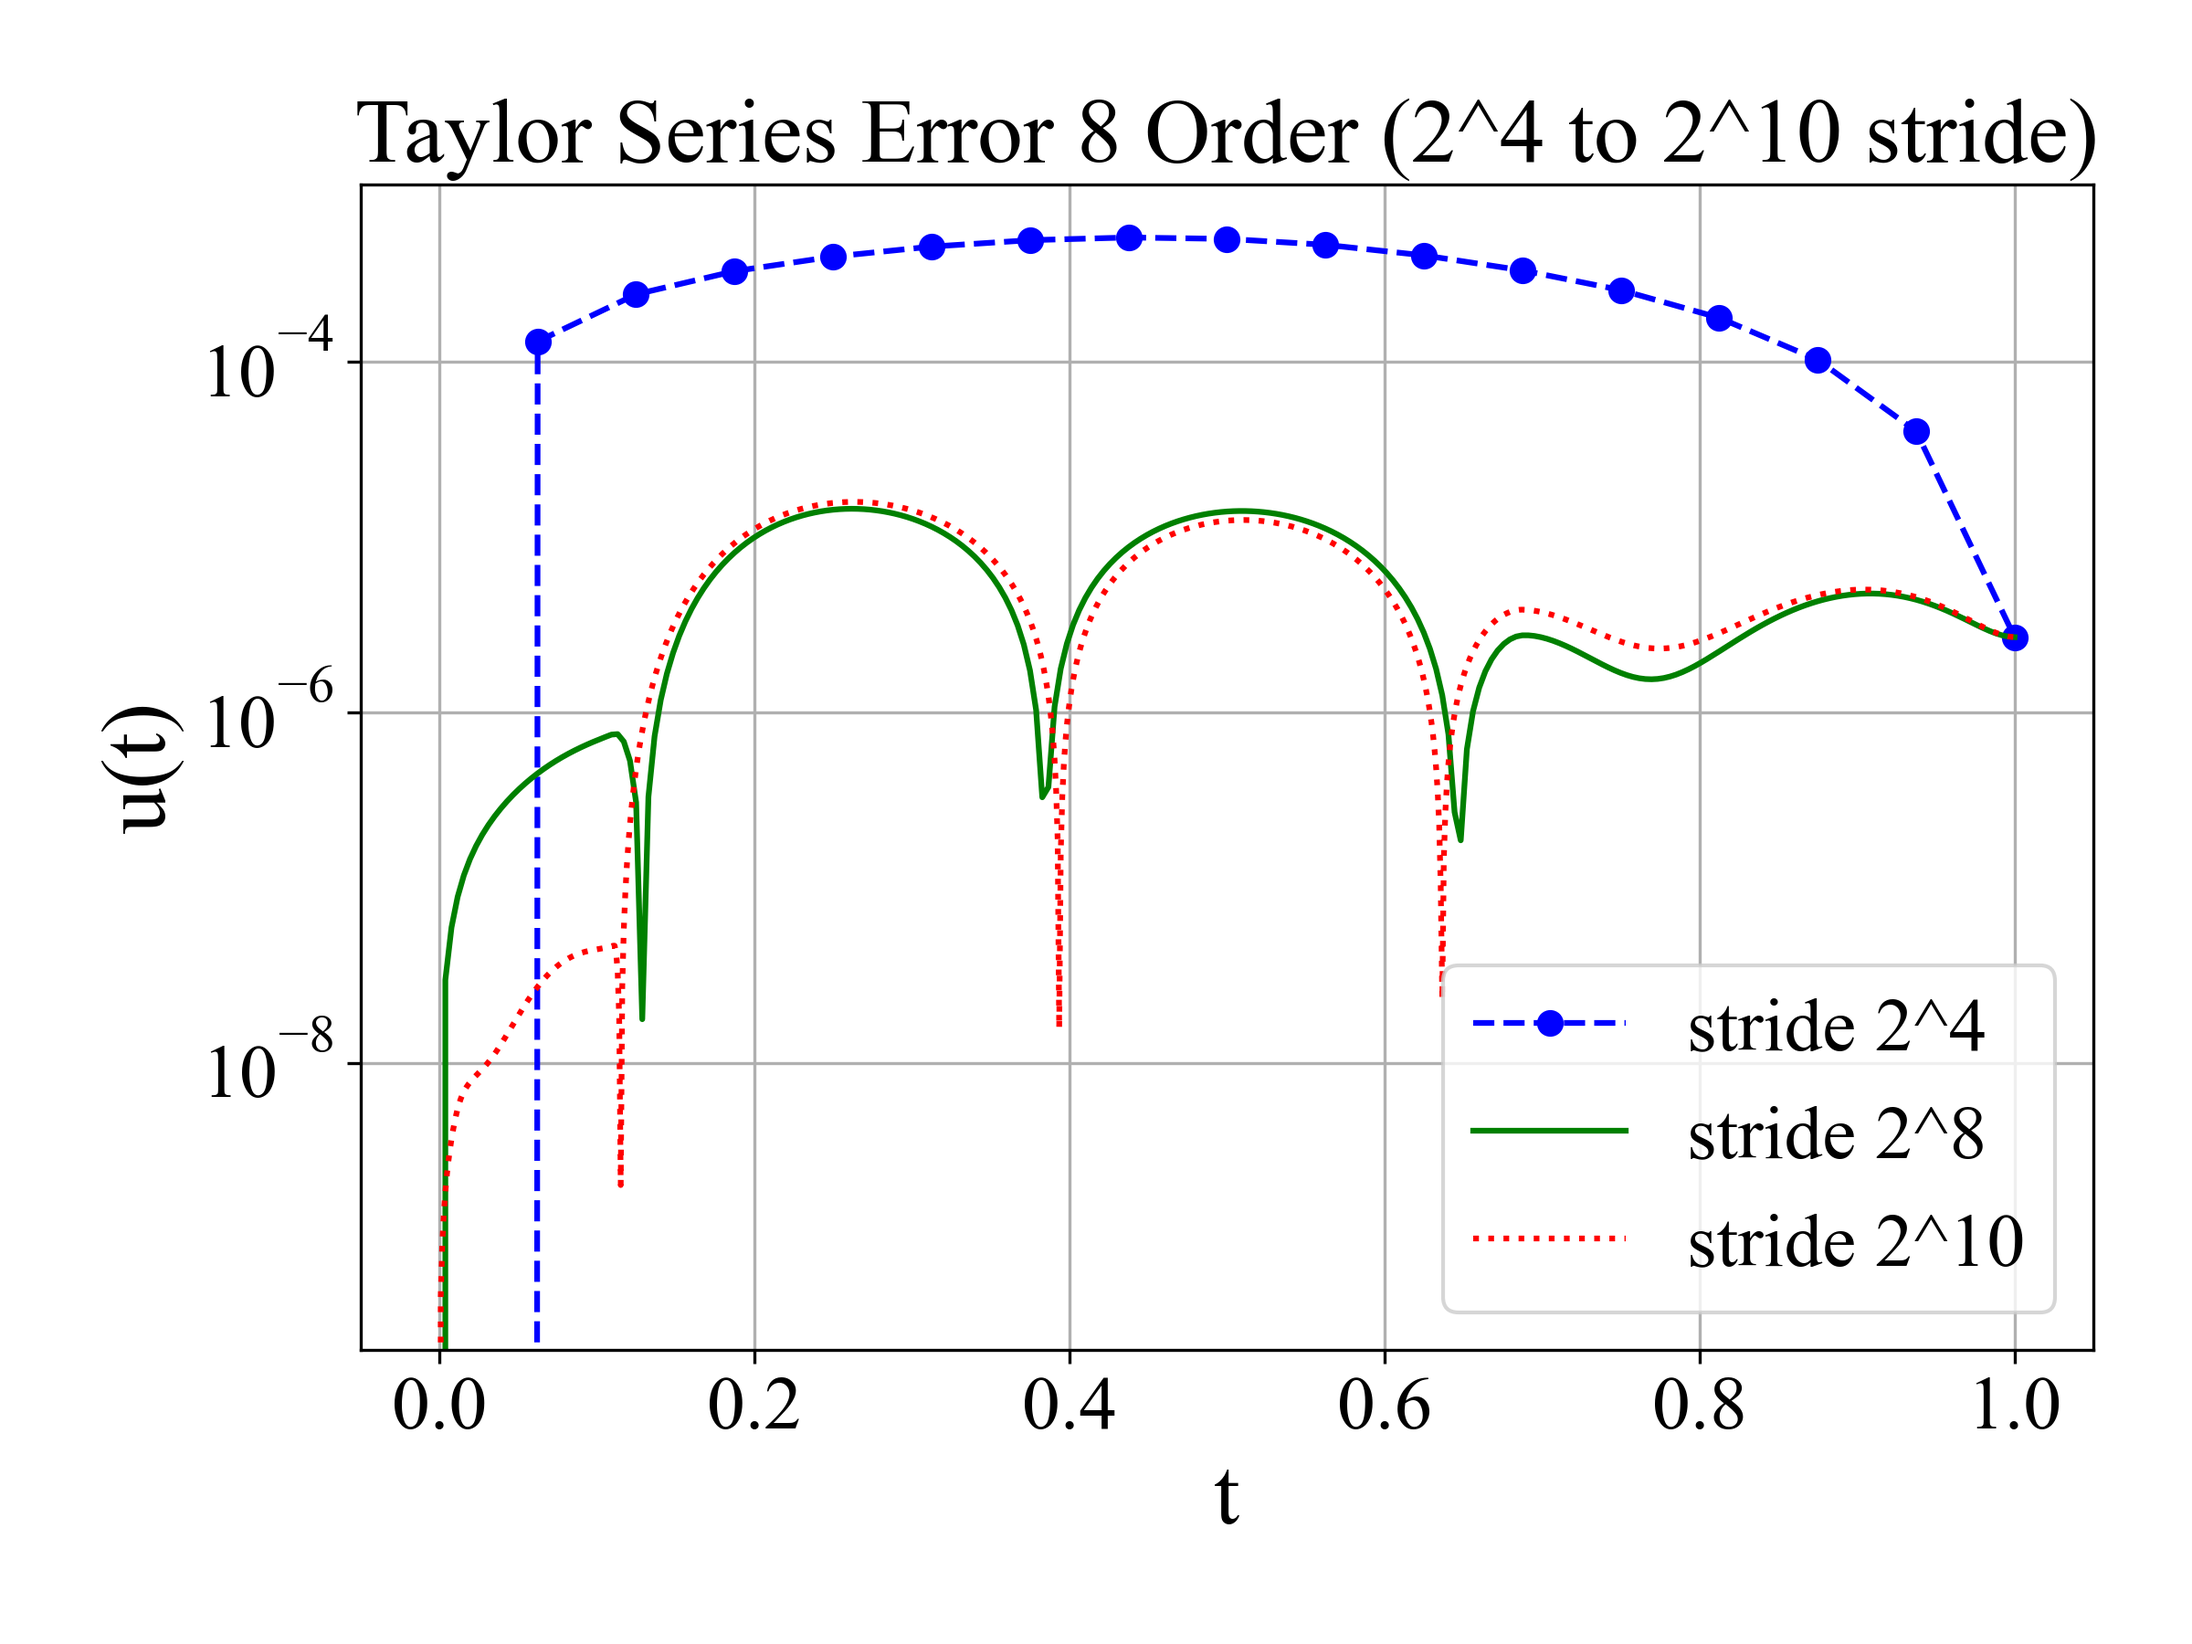
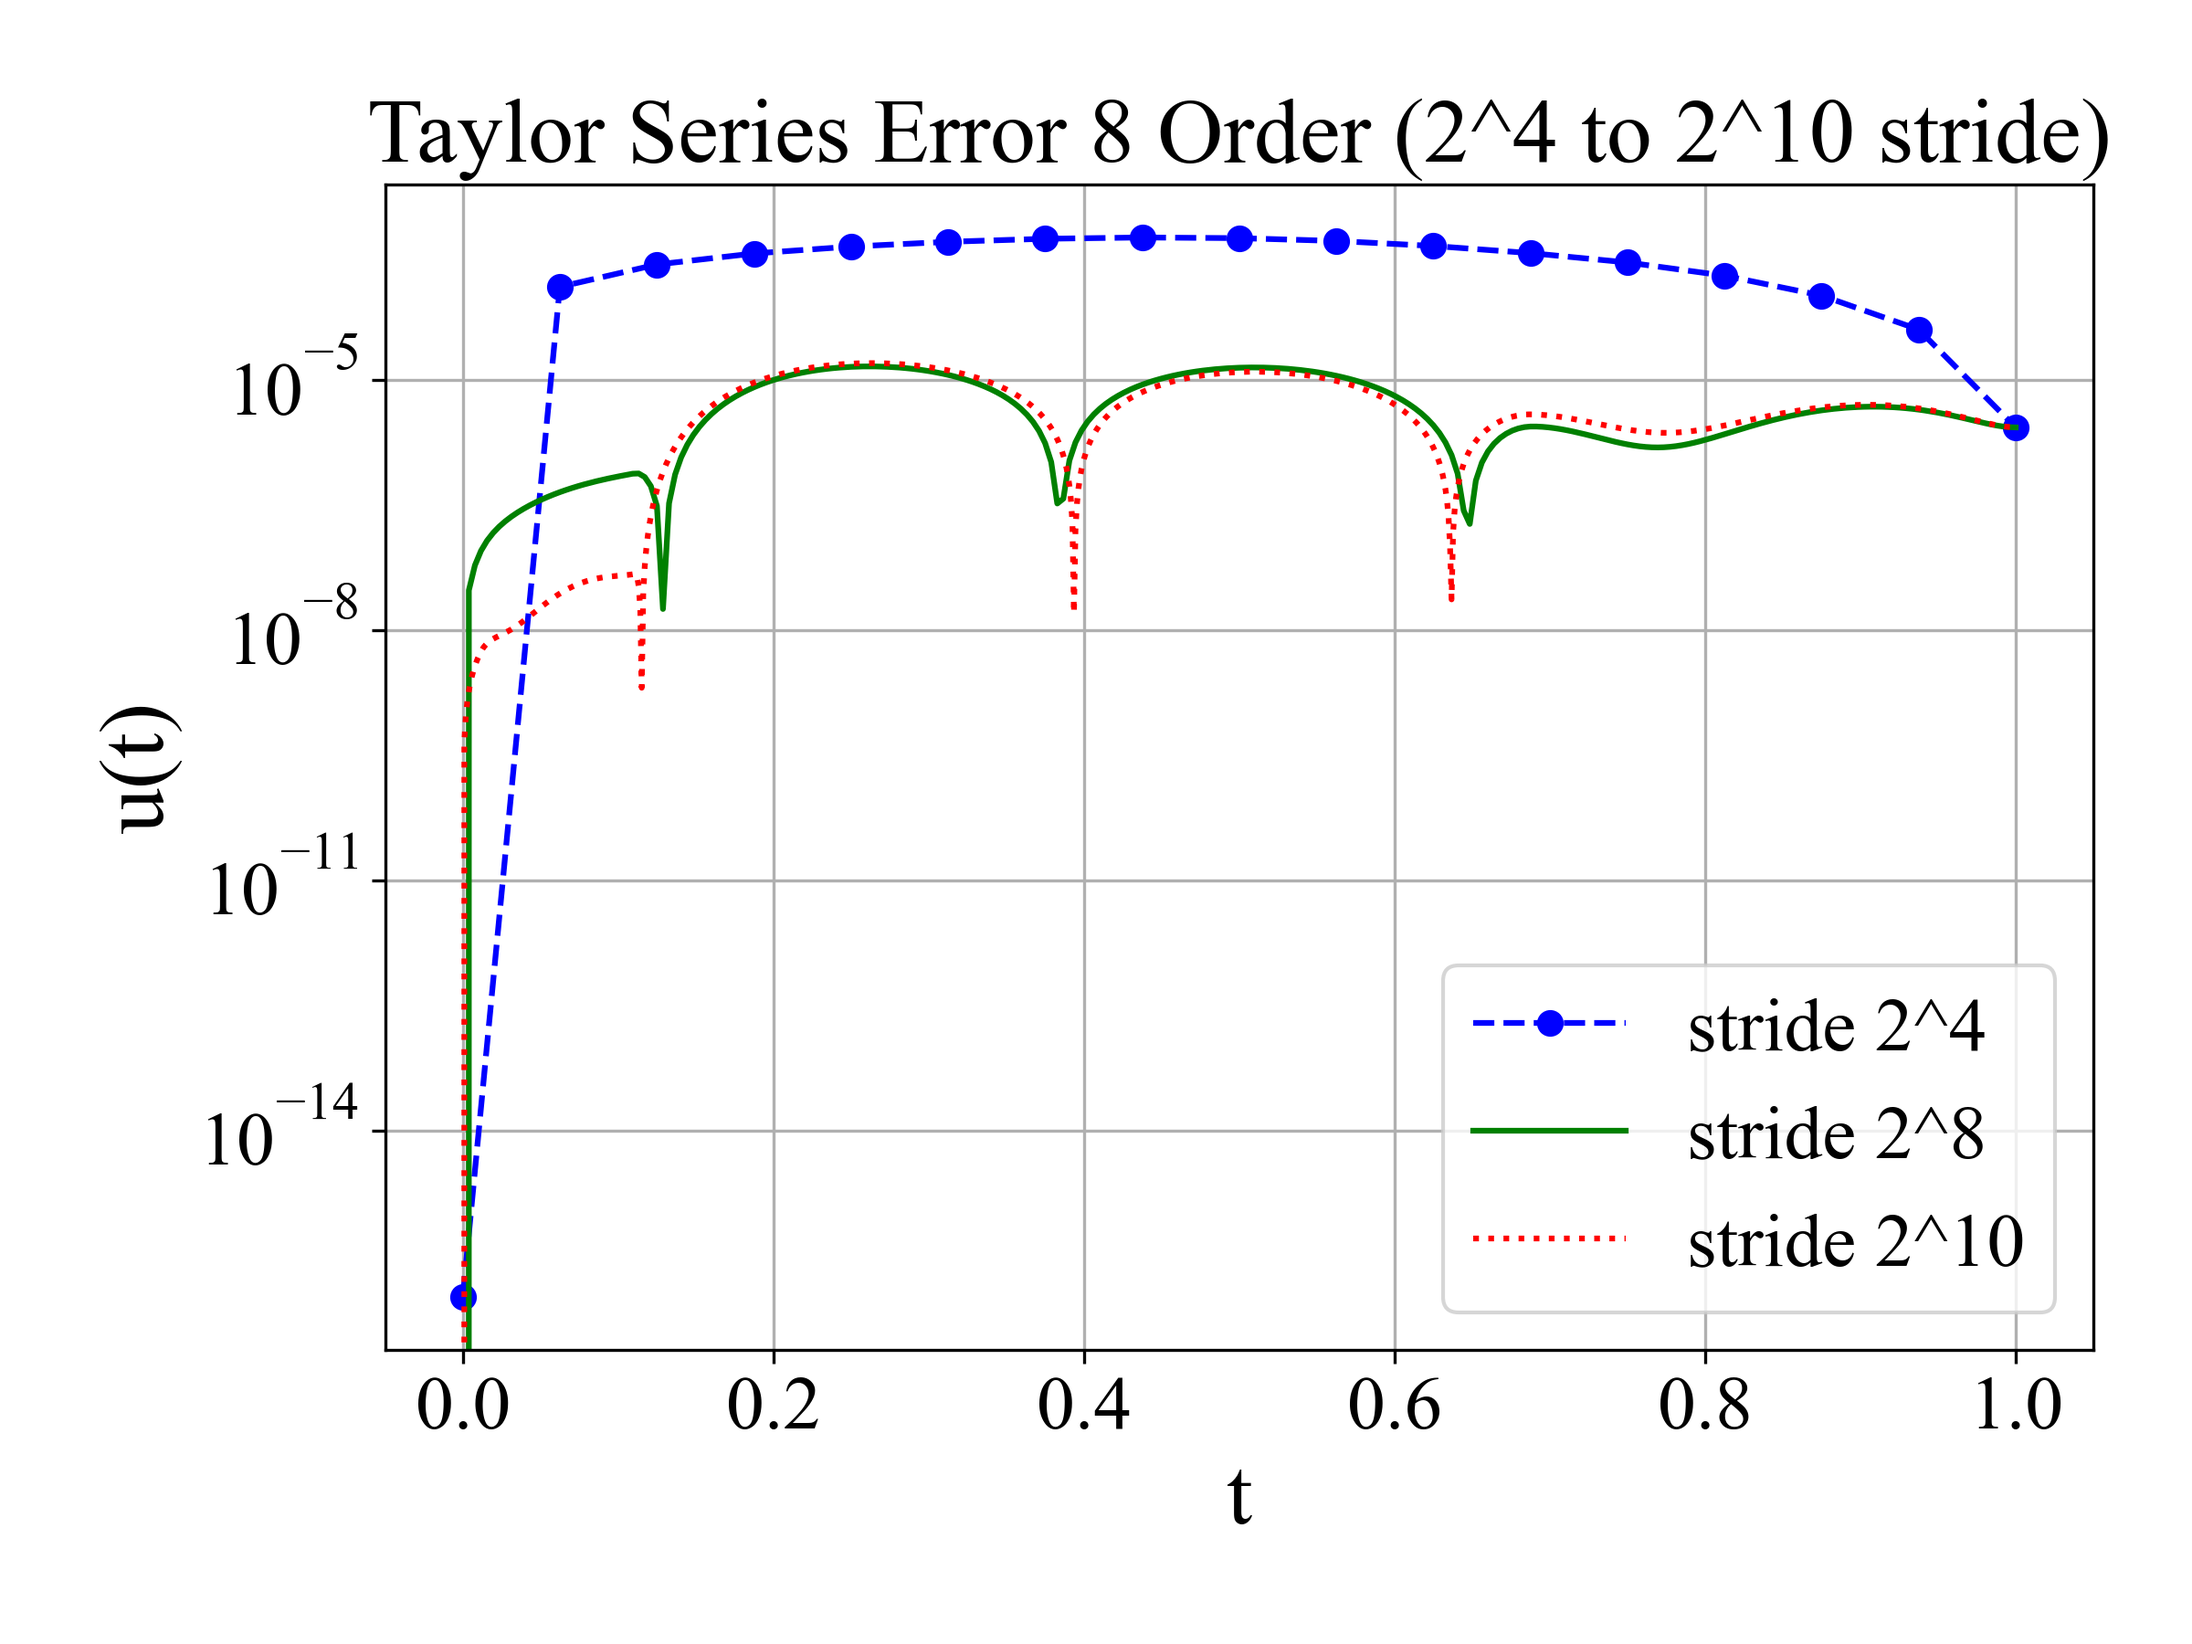
update example3.py

diff --git a/ch2/example3/example3.py b/ch2/example3/example3.py
@@ -148,7 +148,7 @@ plt.tight_layout()
 plt.savefig('3.png', dpi=300)
 
 plt.figure(4, figsize=(8, 6))
-plt.plot(t3, error3, label="stride 2^4", linestyle='--', color='blue', marker='o')
+plt.plot(t3, np.array(error3) + 1e-16, label="stride 2^4", linestyle='--', color='blue', marker='o')
 plt.plot(t4, error4, label="stride 2^8", linestyle='-', color='green')
 plt.plot(t5, error5, label="stride 2^10", linestyle=':', color='red')
 
